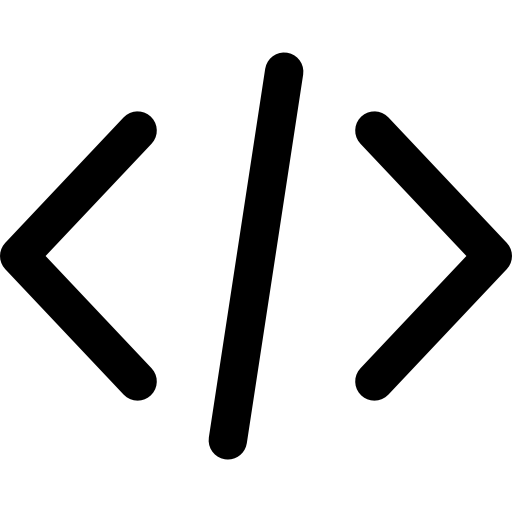
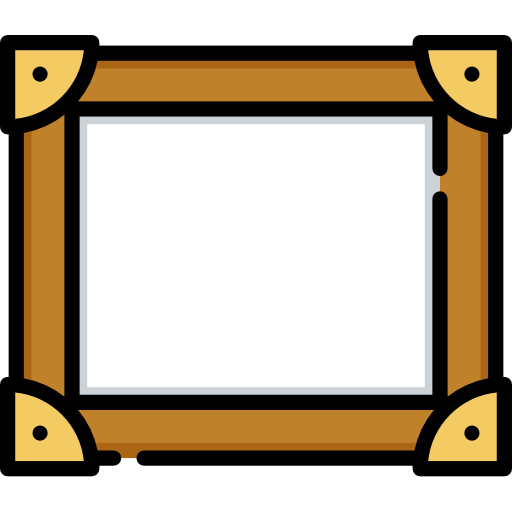
improve smartbar

diff --git a/www/src/lib/entity.ts b/www/src/lib/entity.ts
@@ -39,6 +39,7 @@ export default class Entity {
 				case 'vimeo':
 					out.push(
 						new Entity('iframe', {
+							icon: 'vimeo',
 							src: `https://player.vimeo.com/video/${encodeURIComponent(id)}`,
 						}),
 					);
@@ -46,6 +47,7 @@ export default class Entity {
 				case 'youtube':
 					out.push(
 						new Entity('iframe', {
+							icon: 'youtube',
 							src: `https://www.youtube-nocookie.com/embed/${encodeURIComponent(id)}`,
 						}),
 					);
@@ -59,6 +61,7 @@ export default class Entity {
 			if (soundcloudMatches && soundcloudMatches[0]) {
 				out.push(
 					new Entity('iframe', {
+						icon: 'soundcloud',
 						src: `https://w.soundcloud.com/player/?url=${encodeURIComponent(
 							soundcloudMatches[0],
 						)}&auto_play=false&show_artwork=true`,
@@ -73,6 +76,7 @@ export default class Entity {
 			if (spotifyMatches && spotifyMatches[1] && spotifyMatches[2]) {
 				out.push(
 					new Entity('iframe', {
+						icon: 'spotify',
 						src: `https://open.spotify.com/embed/${encodeURIComponent(
 							spotifyMatches[1],
 						)}/${encodeURIComponent(spotifyMatches[2])}`,
@@ -83,12 +87,13 @@ export default class Entity {
 
 		{
 			const twitchRegex = /https?:\/\/(?:www\.)?twitch\.tv\/([a-z0-9]+)/;
-			const twichMatches = twitchRegex.exec(value);
-			if (twichMatches && twichMatches[1]) {
+			const twitchMatches = twitchRegex.exec(value);
+			if (twitchMatches && twitchMatches[1]) {
 				out.push(
 					new Entity('iframe', {
+						icon: 'twitch',
 						src: `https://player.twitch.tv/?channel=${encodeURIComponent(
-							twichMatches[1],
+							twitchMatches[1],
 						)}&parent=${encodeURIComponent(window.location.hostname)}`,
 					}),
 				);

diff --git a/www/src/lib/assets/entities/index.ts b/www/src/lib/assets/entities/index.ts
@@ -1,13 +1,33 @@
 import Entity from '$lib/entity';
 import iframeURL from '$lib/assets/entities/iframe.png';
+import soundcloudURL from '$lib/assets/entities/soundcloud.png';
+import spotifyURL from '$lib/assets/entities/spotify.png';
 import textURL from '$lib/assets/entities/text.png';
+import twitchURL from '$lib/assets/entities/twitch.png';
+import vimeoURL from '$lib/assets/entities/vimeo.png';
+import youtubeURL from '$lib/assets/entities/youtube.png';
 
 export function getIconURL(entity: Entity): string {
 	switch (entity.kind) {
 		case 'iframe':
-			return iframeURL;
+			switch (entity?.props?.icon) {
+				case 'soundcloud':
+					return soundcloudURL;
+				case 'spotify':
+					return spotifyURL;
+				case 'twitch':
+					return twitchURL;
+				case 'vimeo':
+					return vimeoURL;
+				case 'youtube':
+					return youtubeURL;
+				default:
+					return iframeURL;
+			}
+
 		case 'text':
 			return textURL;
+
 		default:
 			throw new Error(`implementation error: unexpected kind "${entity.kind}"`);
 	}
